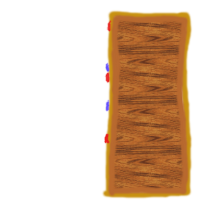
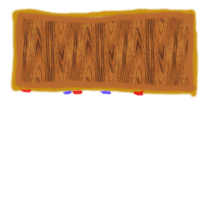
gameplay

diff --git a/room.js b/room.js
@@ -5,55 +5,67 @@ Room.rooms = {
 	"livingroom" : {
 		id: "livingroom",
 		doors : ["west"],
-		windows : ["north", "east"],
+		windows : ["north"],
 		background: "url(img/livingroom.png)",
 		furniture : {
 			"#TV": { 
 				name: "TV",
 				cssBounds: {
-					top: 150, left: 250, width:100, height:100, rotate:0
+					top: 180, left: 100, width:100, height:100, rotate:0
 				},
 				background: "url(img/shittytv.png)",
-				description: "TV is noisy"
+				description: "The TV makes an annoying static noise."
 			},
 			"#Sofa" :{ 
 				name: "Sofa",
 				cssBounds: {
-					top: 50, left: 50, width:200, height:200, rotate:0
+					top: 290, left: 50, width:200, height:200, rotate:180
 				},
 				background: "url(img/shittysofa.png)",
-				description: "Sofa is comfy"
+				description: "This is an ugly, but comfortable sofa."
+			},
+			"#Bookshelf" :{ 
+				name: "Bookshelf",
+				cssBounds: {
+					top: 100, left: 300, width:200, height:200, rotate:90
+				},
+				background: "url(img/bookshelf.png)",
+				description: "The bookshelf is heavy to move around."
 			}
 		},
 		badnesses: {
-			'Room is unbalanced' : function(room){
-				//todo:
-				return 1.0; //number for badness
+			'Sofa is not facing the windows' : function(room){
+				console.log(Game.context.currentRoom.furniture["#Sofa"].facing);
+				if(Game.context.currentRoom.furniture["#Sofa"].facing == "north")
+					return 0;
+				else
+					return 1.0; //number for badness
 			},	
-			'Sofa is not facing door' : function(room){
-				//todo:
-				return 1.0; //number for badness
-			},	
-			'Sofa is pink' : function(room){
-				//todo:
-				return 0.0; //number for badness
-			},
 			'Sofa is too close to a wall' : function(room){
-				//todo:
-				return 1.0; //number for badness
+				let sofa = room.furniture["#Sofa"];
+				let distances = [sofa.distance.north, sofa.distance.south, sofa.distance.west, sofa.distance.east];
+				let minDistance = Math.min.apply(Math, distances);
+				console.log(distances);
+				if(minDistance < 10)
+					return 1;
+				else return 0;
 			},
 			'Sofa is too far away from a wall' : function(room){
 				let sofa = room.furniture["#Sofa"];
-				//todo:
-				return sofa.cssBounds.top / 180; //number for badness
+				let distances = [sofa.distance.north, sofa.distance.south, sofa.distance.west, sofa.distance.east];
+				let minDistance = Math.min.apply(Math, distances);
+				console.log(distances);
+				if(minDistance > 50)
+					return 1;
+				else return 0;
 			}
 		},
 		wintest : function(context){
-			if(context.badness > 3){
+			if(context.badness >= 1){
 				$(".room").css('animation-name', 'shakingless');
 			}
 			//some test for winning here
-			return context.badness > 4;
+			return context.badness == 2;
 		}
 	},
 	"bedroom" : {
@@ -64,7 +76,6 @@ Room.rooms = {
 		furniture : {
 			"#TV": { 
 				name: "TV",
-				boundingBox: [50, 50, 100, 200],
 				cssBounds: {
 					top: 150, left: 250, width:50, height:50, rotate:0
 				},
@@ -73,7 +84,6 @@ Room.rooms = {
 			},
 			"#Sofa" :{ 
 				name: "Sofa",
-				boundingBox: [50, 50, 100, 200],
 				cssBounds: {
 					top: 50, left: 50, width:140, height:70, rotate:0
 				},
@@ -120,7 +130,6 @@ Room.rooms = {
 		furniture : {
 			"#TV": { 
 				name: "TV",
-				boundingBox: [50, 50, 100, 200],
 				cssBounds: {
 					top: 150, left: 250, width:50, height:50, rotate:0
 				},
@@ -129,7 +138,6 @@ Room.rooms = {
 			},
 			"#Sofa" :{ 
 				name: "Sofa",
-				boundingBox: [50, 50, 100, 200],
 				cssBounds: {
 					top: 50, left: 50, width:140, height:70, rotate:0
 				},
@@ -176,7 +184,6 @@ Room.rooms = {
 		furniture : {
 			"#TV": { 
 				name: "TV",
-				boundingBox: [50, 50, 100, 200],
 				cssBounds: {
 					top: 150, left: 250, width:50, height:50, rotate:0
 				},
@@ -185,7 +192,6 @@ Room.rooms = {
 			},
 			"#Sofa" :{ 
 				name: "Sofa",
-				boundingBox: [50, 50, 100, 200],
 				cssBounds: {
 					top: 50, left: 50, width:140, height:70, rotate:0
 				},
@@ -232,7 +238,6 @@ Room.rooms = {
 		furniture : {
 			"#TV": { 
 				name: "TV",
-				boundingBox: [50, 50, 100, 200],
 				cssBounds: {
 					top: 150, left: 250, width:50, height:50, rotate:0
 				},
@@ -241,7 +246,6 @@ Room.rooms = {
 			},
 			"#Sofa" :{ 
 				name: "Sofa",
-				boundingBox: [50, 50, 100, 200],
 				cssBounds: {
 					top: 50, left: 50, width:140, height:70, rotate:0
 				},

diff --git a/main.js b/main.js
@@ -54,6 +54,7 @@ Game.start = function(roomName){
 	console.log("loading level");
 	console.log(theLevel);
 	Game.context.currentRoom = JSON.parse(JSON.stringify(theLevel)); //only way I know to reliably make a copy
+	
 	Game.renderAll();
 	Game.showIntro();
 };
@@ -124,9 +125,7 @@ Game.placeFurniture = function(event){
  		//check if furniture can be placed here
  		let furnitureCopy = JSON.parse(JSON.stringify(Game.context.currentRoom.furniture[id]));
  		let rom = $("#roomTarget").offset();
- 		//todo: Figure all this out.
- 		
-        //if (Game.context.selectedRotation)
+
  		let intersectsWith = []; 
  		let furnitures = Game.context.currentRoom.furniture;
 		furnitureCopy.cssBounds.top = event.pageY - rom.top - Game.context.selectedCoordinates[1];
@@ -154,6 +153,7 @@ Game.placeFurniture = function(event){
 			updatedFurniture.cssBounds.top = event.pageY - rom.top - Game.context.selectedCoordinates[1];
 			updatedFurniture.cssBounds.left = event.pageX - rom.left - Game.context.selectedCoordinates[0];
 			updatedFurniture.cssBounds.rotate = Game.context.selectedRotation;
+			Furniture.calculateStuff(updatedFurniture);
 		
 	 		Game.renderAll();
 	 		Game.testForWin();
@@ -177,7 +177,12 @@ Game.testForWin = function(){
 }
 
 Game.calculateQi = function(room){
-	//todo: base these on calculations
+	for (var furnitureid in Game.context.currentRoom.furniture){
+//		console.log("calculating stuff for " + furnitureid);
+		let furniture = Game.context.currentRoom.furniture[furnitureid];
+		Furniture.calculateStuff(furniture);
+	}
+
 	var totalBadness = 0;
 	var badStuffs = [];
 	let badnesses = Room.rooms[room.id].badnesses;

diff --git a/furniture.js b/furniture.js
@@ -15,9 +15,27 @@ Furniture.intersects = function(furniture1, furniture2){
 
     const pythDistance = Math.sqrt(distance_y * distance_y + distance_x * distance_x);
 
-    console.log("distance was " + pythDistance);
+   // console.log("distance was " + pythDistance);
 
     return pythDistance < addedRadius;
+};
+
+Furniture.calculateStuff = function(furniture){
+    furniture.distance = {};
+    furniture.distance.north = furniture.cssBounds.top;
+    furniture.distance.west = furniture.cssBounds.left;
+    furniture.distance.east = 500 - furniture.cssBounds.left + furniture.cssBounds.width;
+    furniture.distance.south = 500 - furniture.cssBounds.top + furniture.cssBounds.height;
+    let r = ((furniture.cssBounds.rotate % 360) + 360) % 360;
+    if(r == 0){
+        furniture.facing = "south";
+    } else if(r == 90){
+        furniture.facing = "west";
+    } if(r == 180){
+        furniture.facing = "north";
+    } if(r == 270){
+        furniture.facing = "east";
+    }
 };
 
 Furniture.flipBoundingBox = function(furniture1) {

diff --git a/index.html b/index.html
@@ -50,6 +50,13 @@
 					<div class="modal-body">
 						{{storyText}}
 					</div>
+					<div class="modal-body">
+						<ul>
+			    		{{#each badStuff}}
+			    			<li>{{this}}</li>
+						{{/each}}
+				    	</ul>
+					</div>
 					<div class="modal-footer">
 						<button type="button" class="btn btn-primary btn-lg" data-dismiss="modal">
 							Continue
